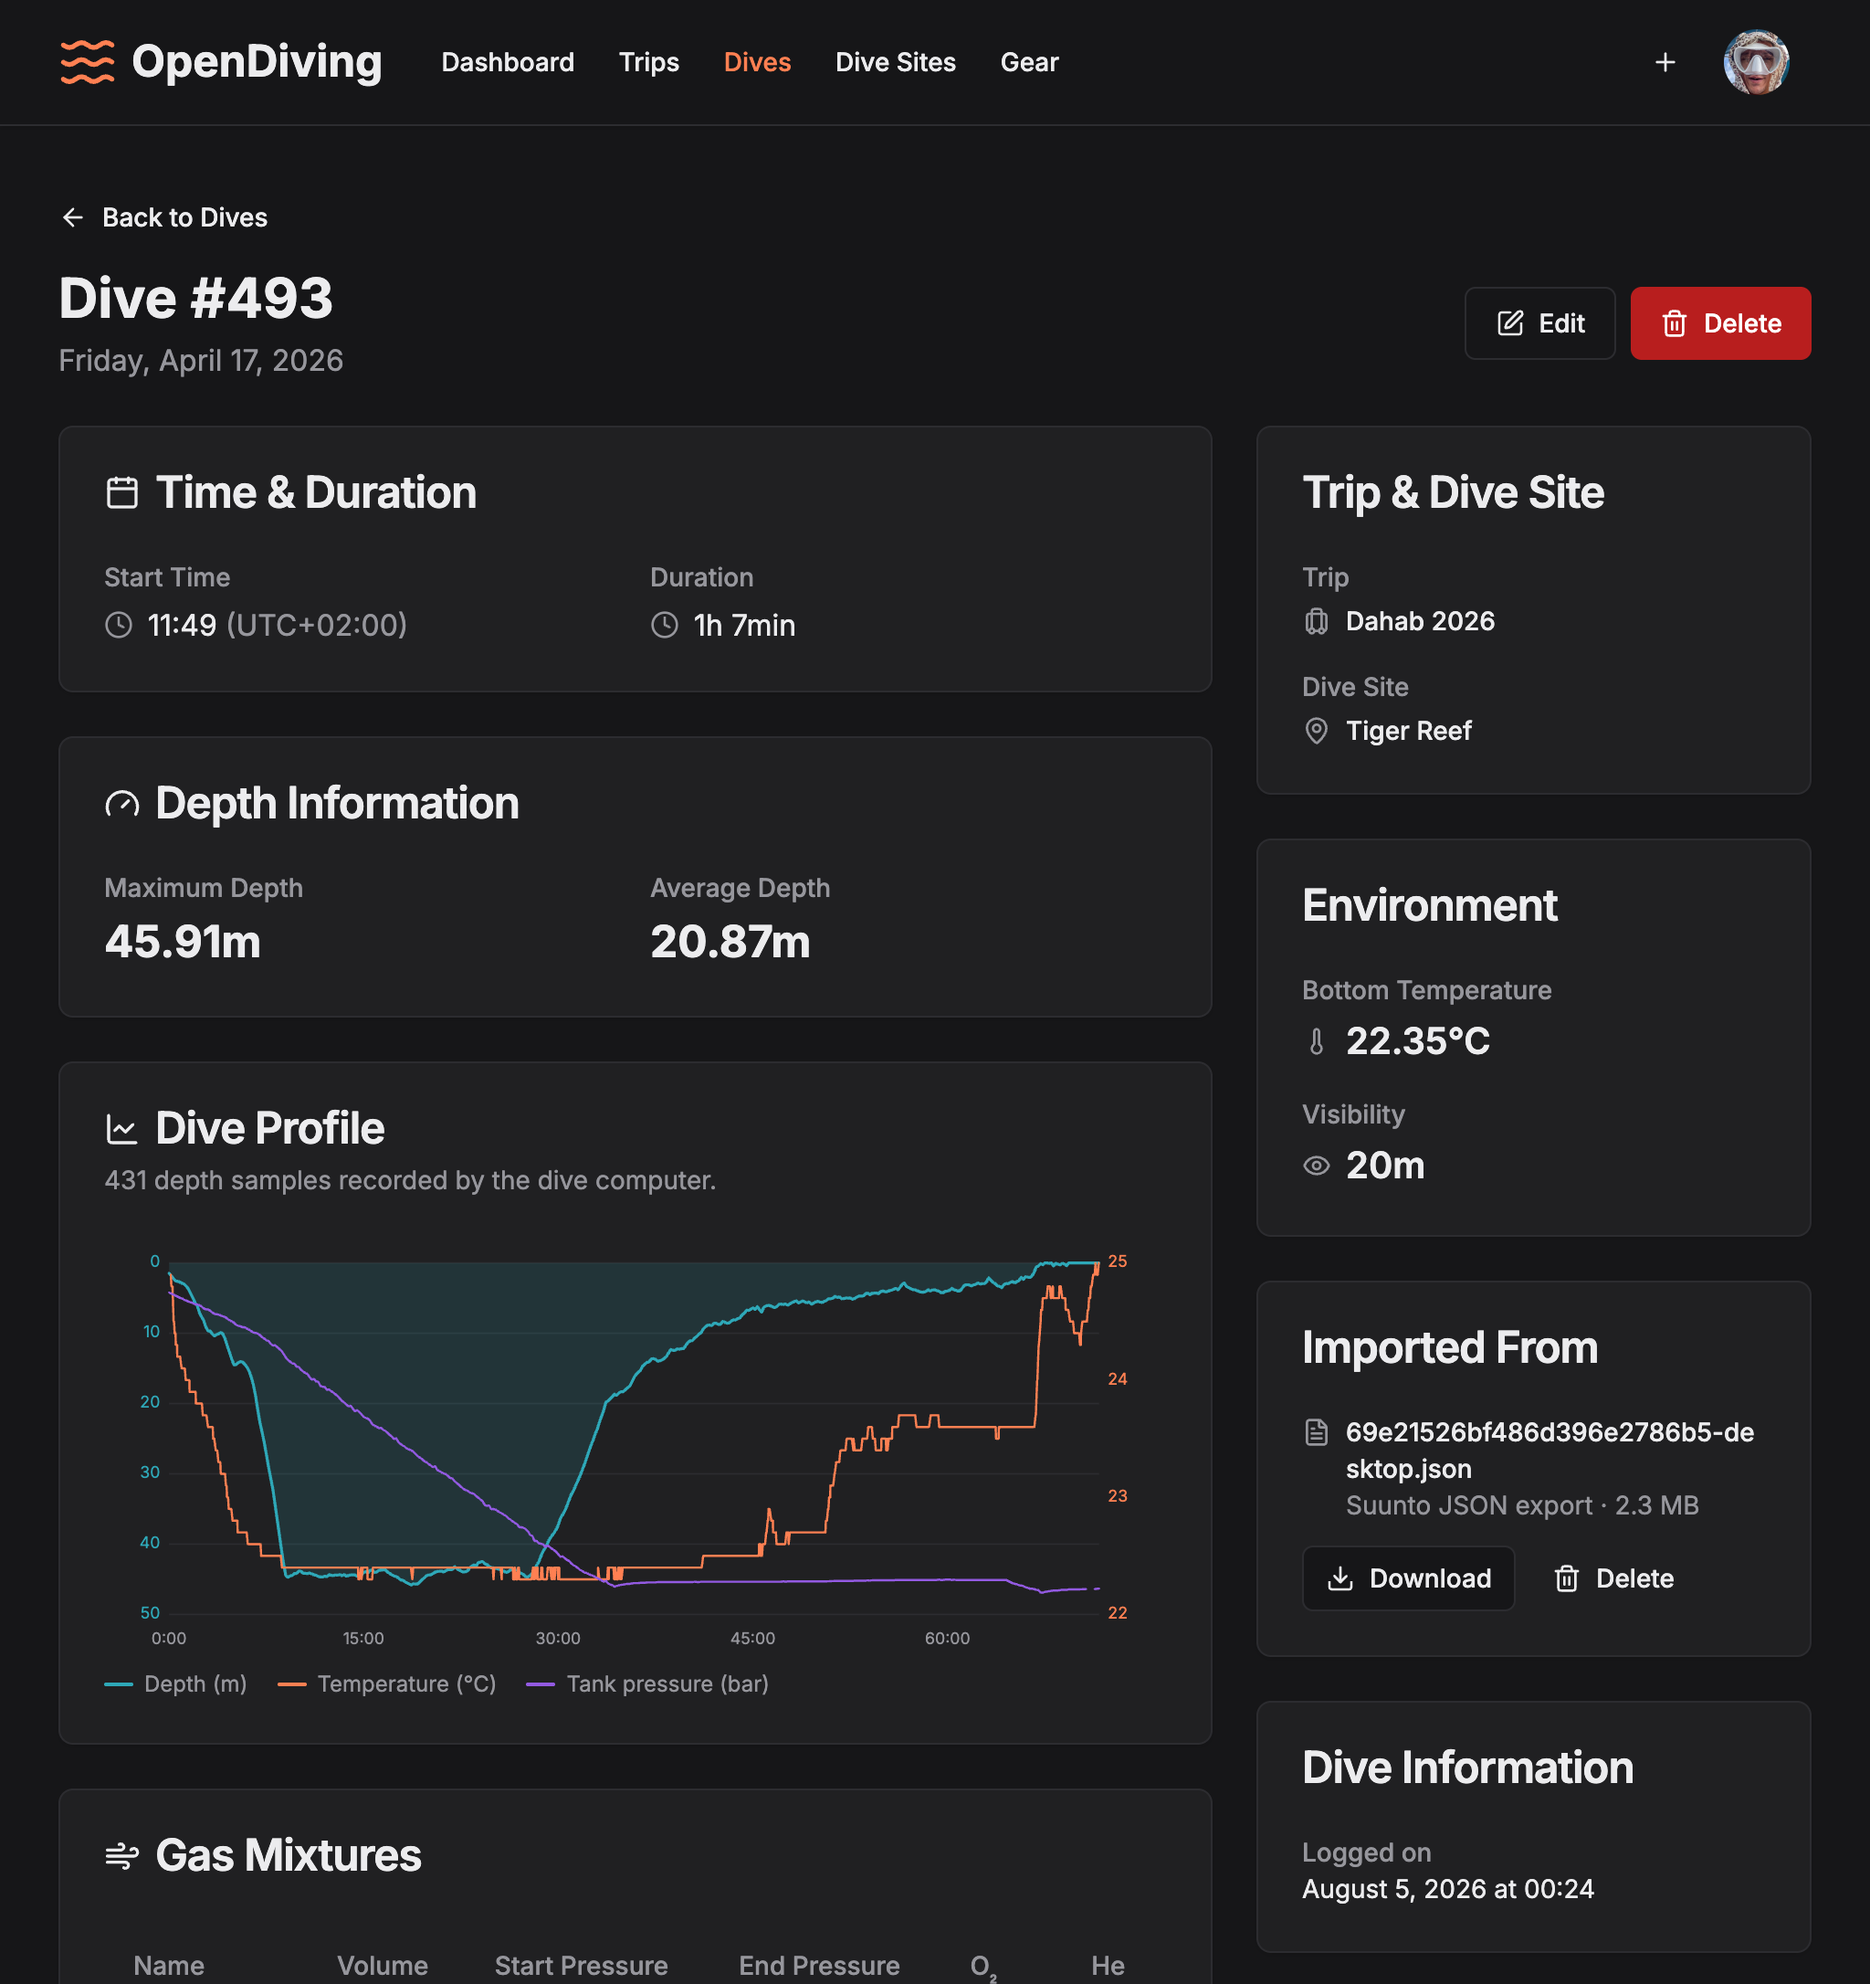
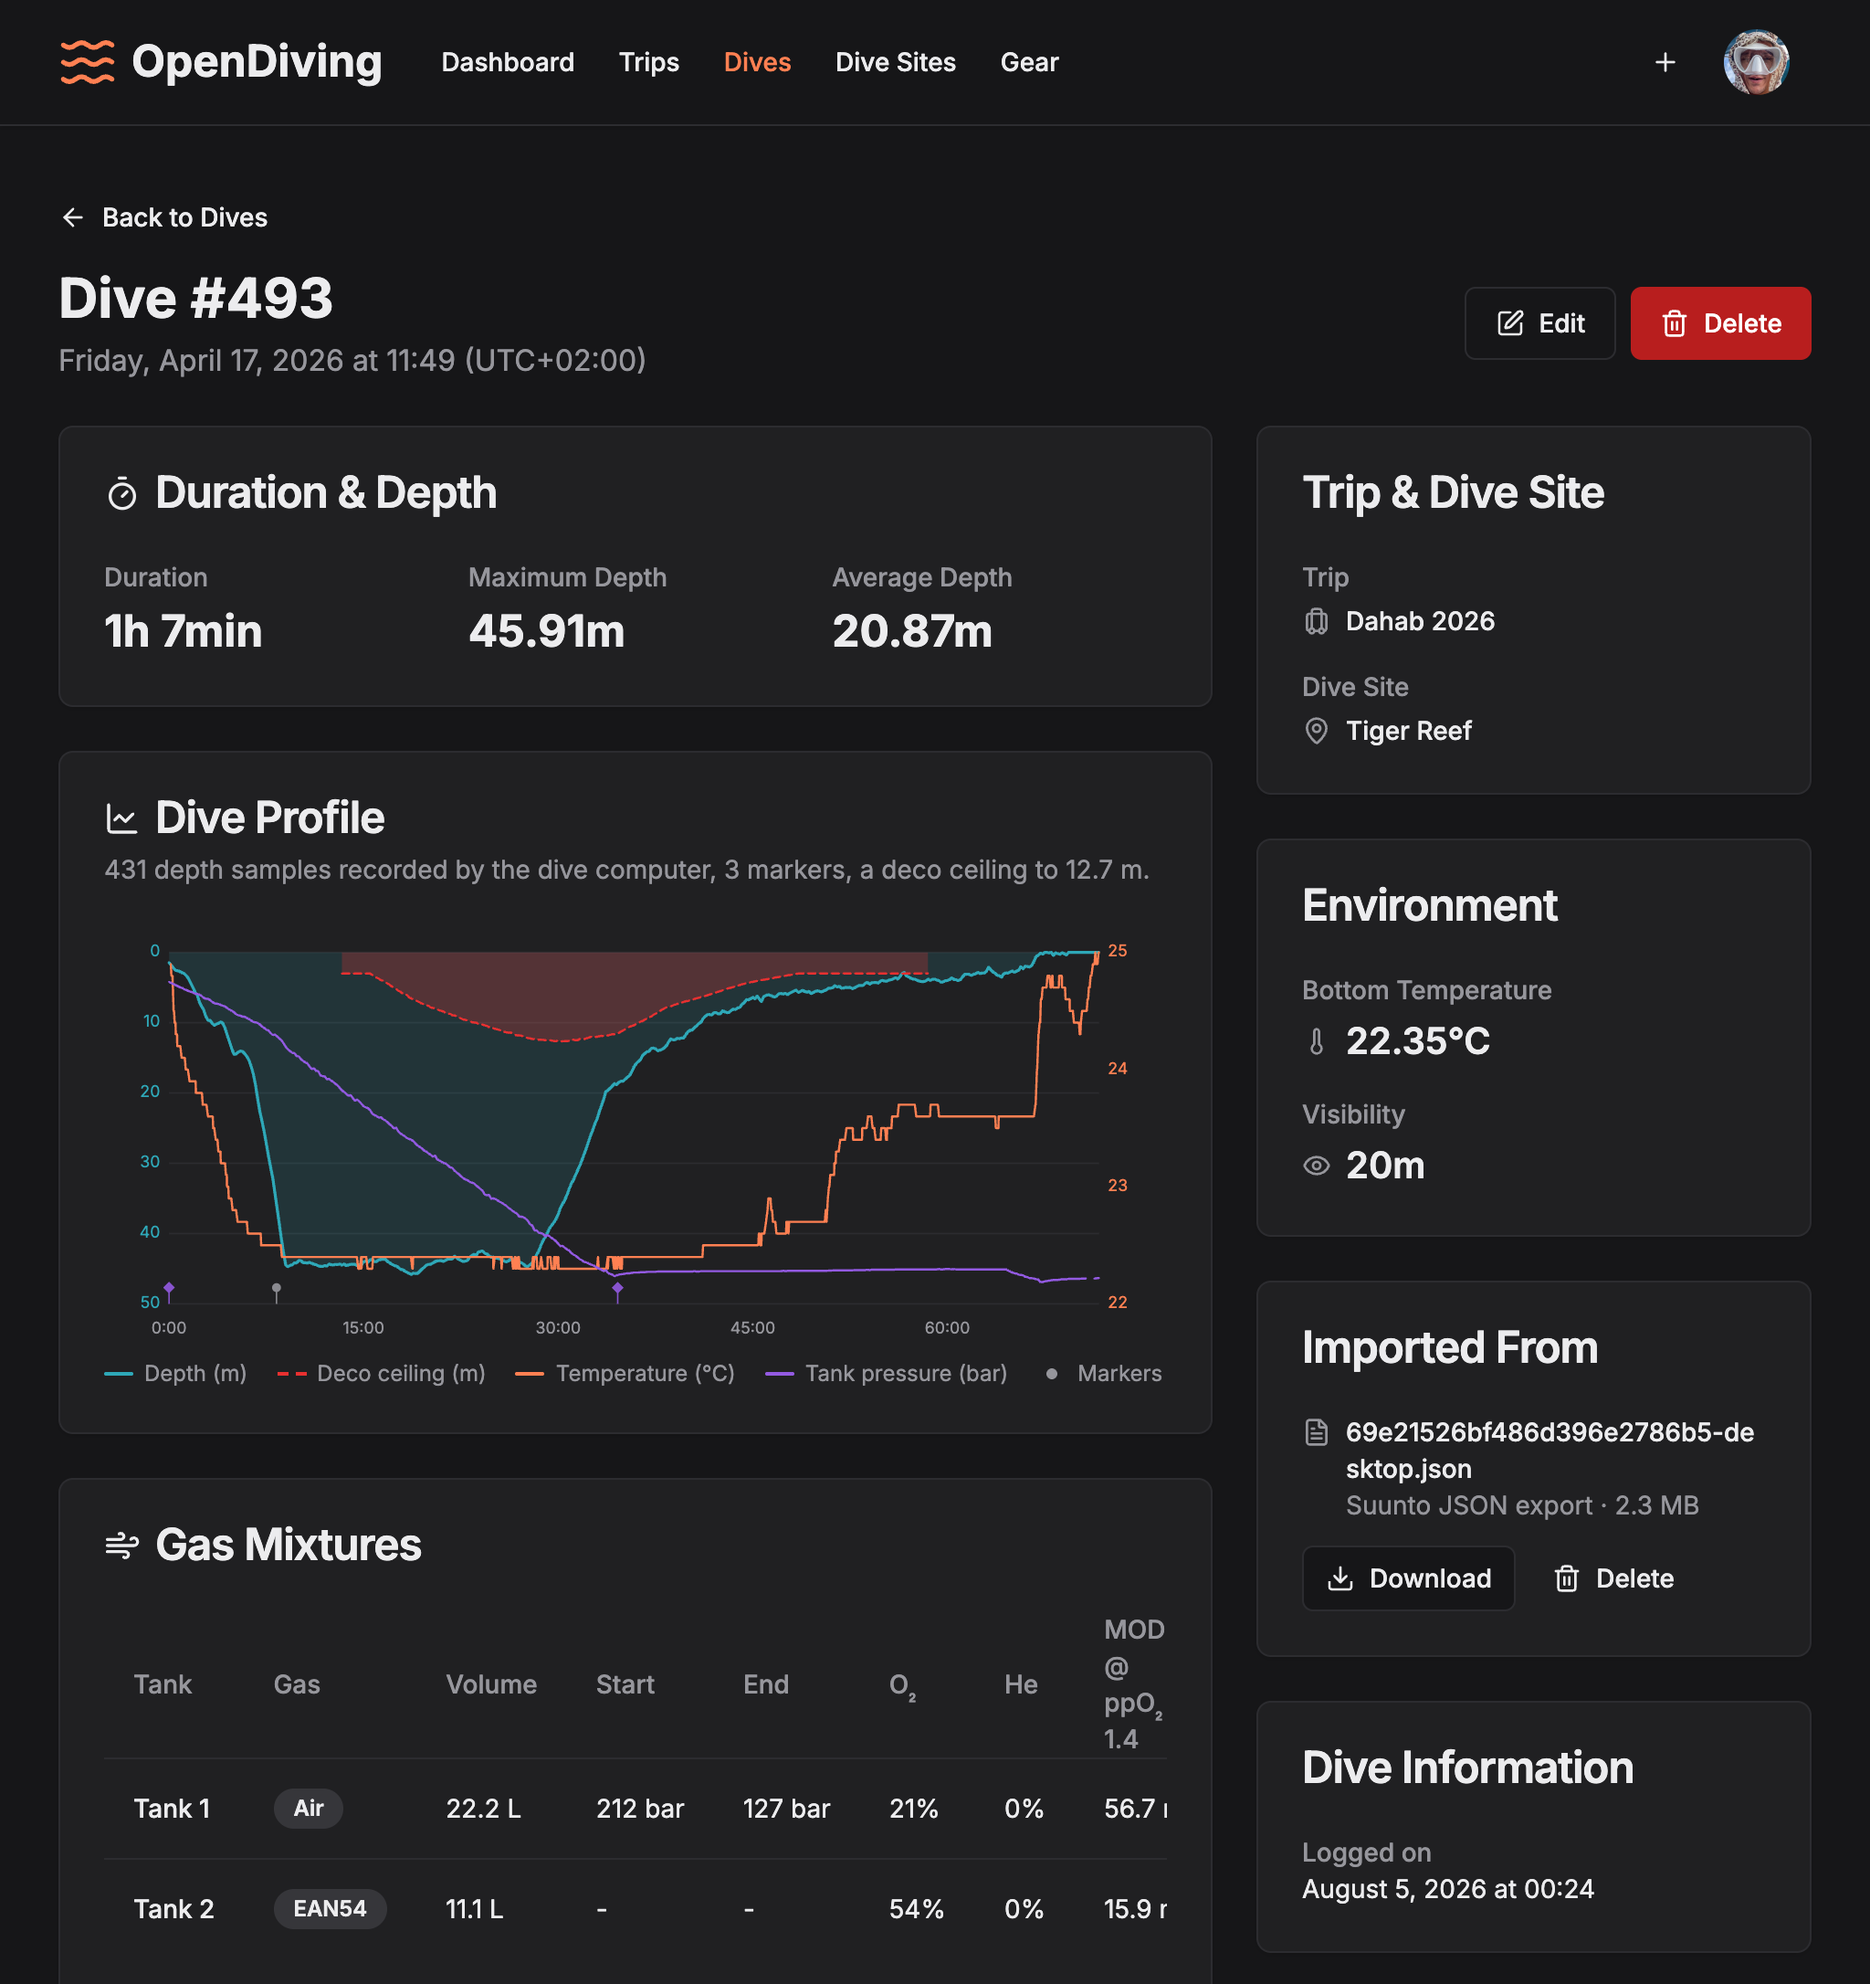
docs: Readme update (#34)

diff --git a/README.md b/README.md
@@ -1,16 +1,18 @@
 # OpenDiving Web
 
-**A self-hosted dive log. Your dives, your data — in open formats, on your own server.**
+**A self-hosted dive log, built to outlive every vendor. Your dives, your data — original files
+kept, open formats, on your own server.**
 
-OpenDiving is an open-source logbook for scuba divers: log dives with gas mixtures and multiple
-sites per dive, group them into trips, import dives straight from your dive computer's export file —
-full depth/temperature/tank-pressure profile included — and keep your gear service history and
-c-cards in one place.
+OpenDiving is an open-source logbook for scuba divers — recreational and technical: log dives with
+multi-tank gas mixtures (nitrox and trimix), import dives straight from your dive computer's export
+file — full depth/temperature/tank-pressure profile, deco ceiling and dive events included — group
+them into trips, and keep your gear service history and c-cards in one place.
 
-Cloud dive logs come and go, and when they go, years of dive history go with them. OpenDiving is
-built on a different premise: the app is AGPL-licensed, the data lives in your own Postgres
-database, and every dive keeps the original dive-computer export it was imported from, downloadable
-at any time.
+Cloud dive logs come and go — Movescount, Deepblu, Diveboard — and when they go, years of dive
+history go with them. OpenDiving is built on a different premise: the app is AGPL-licensed, the data
+lives in your own Postgres database, and every dive keeps the original dive-computer export it was
+imported from, downloadable at any time. Self-hosting isn't a feature here; it's the guarantee that
+no shutdown, acquisition, or paywall can ever take your logbook with it.
 
 ![Dashboard](docs/screenshots/dashboard.png)
 
@@ -19,14 +21,18 @@ at any time.
 - **Dive logging** — times, depths, duration, temperature, visibility, weight, notes, and any number
   of gas mixtures (O₂/He, start/end pressures) per dive. A dive can span multiple dive sites (drift
   dives happen), in order.
+- **Technical diving** — trimix and nitrox mixes get derived gas names and per-mix **MOD** at your
+  ppO₂ limit, plus END/EAD; the profile chart shades the **deco ceiling** and marks dive events;
+  **CNS/OTU** oxygen exposure and surface pressure are kept from imports, per-cylinder ppO₂ limits
+  and gas roles included.
 - **Dive-computer import** — upload a FIT file (Garmin Descent, Suunto Ocean/D5) or a Suunto
   XML/JSON export and the form pre-fills itself, keeping the file's own UTC offset where it records
   one (FIT and the JSON exports do; Suunto's XML carries no offset at all, so those fall back to
   your current timezone). The original file is stored with the dive and can be re-downloaded
-  anytime; the per-sample **dive profile** (depth, temperature, tank pressure) is extracted and
-  charted on the dive page.
-- **Air consumption** — SAC and RMV are derived automatically for single-tank dives, with a per-dive
-  breakdown and a consumption trend chart on the dashboard.
+  anytime; the per-sample **dive profile** (depth, temperature, tank pressure, deco ceiling, events)
+  is extracted and charted on the dive page.
+- **Air consumption** — SAC and RMV are derived automatically, including a **per-tank breakdown**
+  across recorded gas switches on multi-tank dives, with a consumption trend chart on the dashboard.
 - **Trips** — group dives into a liveaboard or a holiday week, with location and dates.
 - **Dive sites** — your personal site list, with every dive you've logged at each site.
 - **Gear tracking** — your equipment with per-item dive counts, groupable into gear sets you can
@@ -45,15 +51,36 @@ at any time.
 
 Roadmap items, roughly in priority order — contributions welcome:
 
-- **More dive computers & formats** — UDDF and Subsurface imports, with an eye on
-  [libdivecomputer](https://www.libdivecomputer.org/) for broad hardware support.
-- **Full export** — one click to take _everything_ out in open formats (UDDF, JSON, CSV). Getting
-  data out will always be as easy as getting it in.
+- **Full export** — one click to take _everything_ out in open formats (UDDF, CSV, and a complete
+  JSON + original-files archive). A data-ownership log without an exit door is a contradiction; this
+  ships before anything else.
+- **More importers** — Subsurface XML and UDDF (which also covers Apple Watch dives via Oceanic+'s
+  UDDF export), then Shearwater Cloud exports; a pluggable importer layer so every format someone is
+  stranded with is a migration path in. Longer term,
+  [libdivecomputer](https://www.libdivecomputer.org/) for direct hardware support.
+- **One-command self-hosting** — a single compose file for the whole stack (web included, TLS
+  handled), prebuilt images, SMTP as an alternative to Resend, and versioned migrations so upgrades
+  never threaten your data.
 - **Statistics** — depth/time records, dives per year, sites map, species log.
-- **Sharing** — public link to a dive or trip, e.g. for instructors verifying experience.
-- **Community** — find dive buddies and share sites.
-- **iOS companion app** — with Bluetooth download from dive computers and offline logging
+- **Sharing** — public link to a dive or trip.
+- **iOS companion app** — parked until the server story is done
   ([opendiving-ios](https://github.com/opendiving/opendiving-ios)).
+
+## How it compares
+
+Honest answers to "why not X":
+
+- **[Subsurface](https://subsurface-divelog.org/)** — the open-source reference, with unmatched
+  dive-computer support and a full deco planner. It's desktop-first with no web app or self-hostable
+  server; OpenDiving is the server-shaped complement — a modern web UI on your own box, API-first,
+  reachable from any browser. Use Subsurface to download from cables; a Subsurface import is high on
+  the roadmap so both can hold the same log.
+- **[Submersion](https://submersion.app/) / [Bubbletrail](https://bubbletrail.app/)** — excellent
+  newer open-source _apps_: local-first, on-device databases, Bluetooth downloads. OpenDiving is the
+  household-server alternative: one instance, every browser and family member, one backup, an API.
+- **Vendor clouds (Shearwater, Garmin, Suunto, Oceanic+)** — where dives are born, not where they
+  should live. OpenDiving imports their exports and keeps the original file forever, so switching
+  computers never splits your history.
 
 ## Getting started
 
@@ -98,7 +125,7 @@ made.
 |                                                                |                                                      |
 | -------------------------------------------------------------- | ---------------------------------------------------- |
 | [opendiving-api](https://github.com/opendiving/opendiving-api) | FastAPI backend (Postgres, Redis, dive-file parsing) |
-| [opendiving-ios](https://github.com/opendiving/opendiving-ios) | SwiftUI companion app (early stage)                  |
+| [opendiving-ios](https://github.com/opendiving/opendiving-ios) | SwiftUI app (early scaffold, parked)                 |
 
 ## License
 
